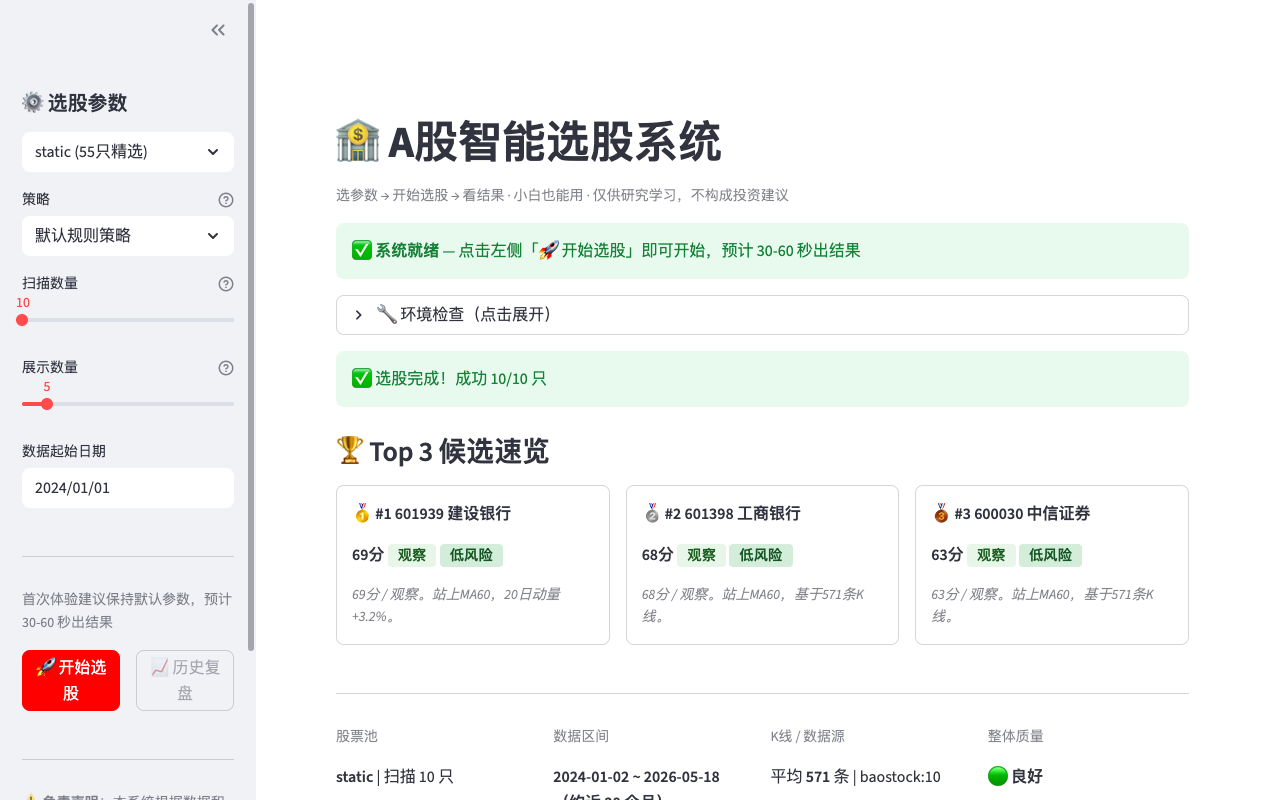
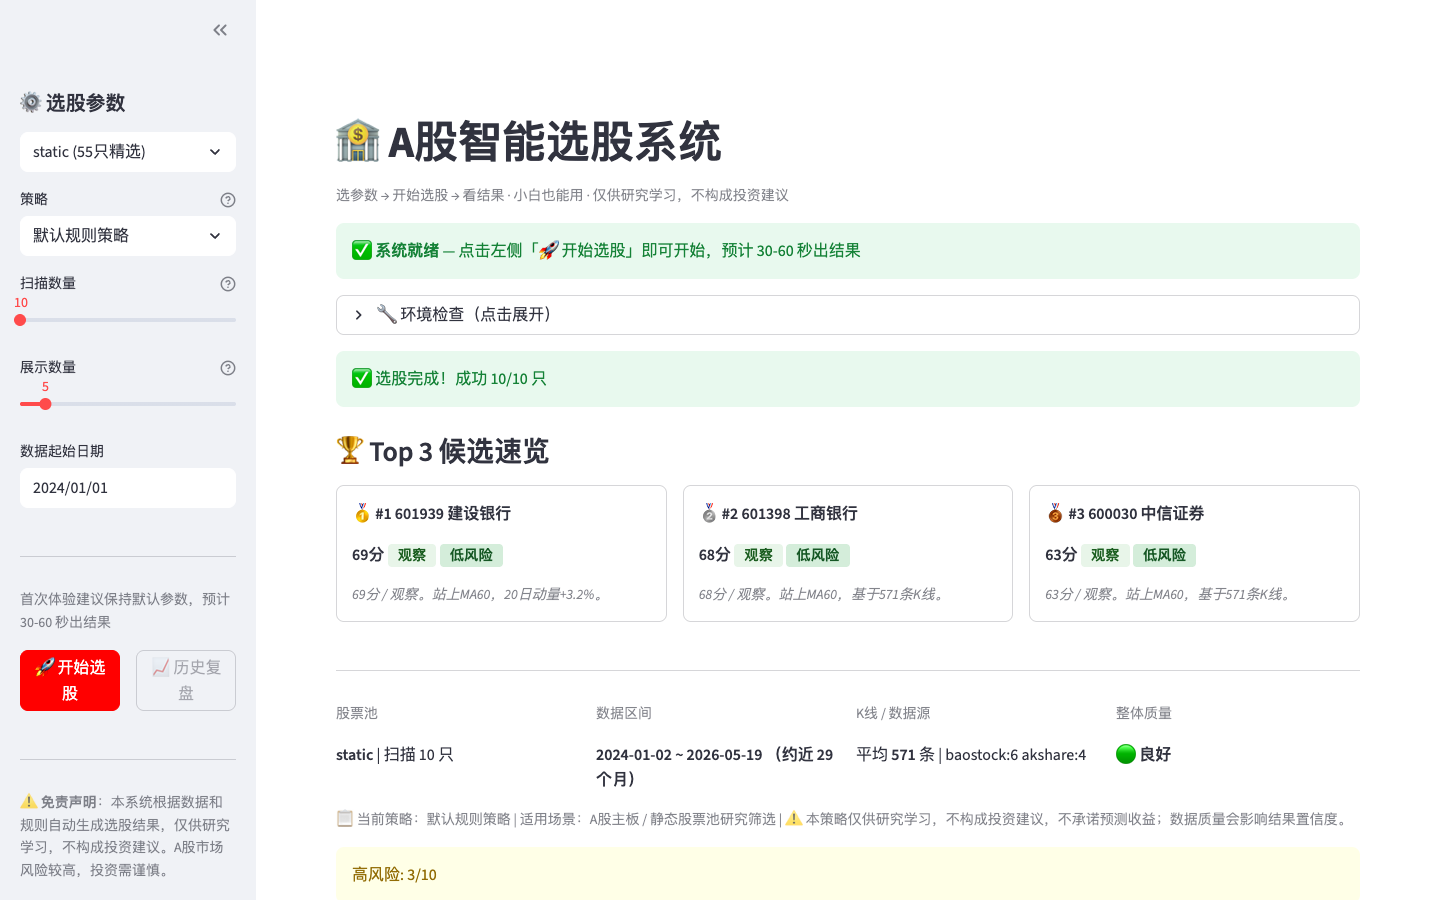
P10.2-2: 真实 UI 截图复核并更新截图

diff --git a/docs/P10_2_UI_SMOKE_DESIGN.md b/docs/P10_2_UI_SMOKE_DESIGN.md
@@ -69,7 +69,7 @@
 
 > P10.2-1.1 补充：confirm_release_state.py 的 ALLOWED_SCRIPTS 白名单已扩展，允许 screenshot_home.py 作为发布后验收工具变更，仍禁止产品代码。
 
-### P10.2-2 启动 Streamlit 做真实截图复核
+### P10.2-2 启动 Streamlit 做真实截图复核（已完成 ✅）
 
 **目标**：用修正后的脚本从真实 Streamlit 页面截图，确认截图内容与当前 UI 一致。
 
@@ -87,6 +87,25 @@
 - Playwright + Chrome 可用
 
 如截图内容与 P8.6-2 无实质差异（因为 app.py 未改），可以确认截图仍有效，不强制重新截取。但需要脚本关键词检查全部通过。
+
+**实际复核结果**：
+
+本地 Streamlit 启动于端口 8502，screenshot_home.py 从真实页面截图并检查关键词。
+
+截图已更新：
+- `docs/screenshots/home.png`：~183KB → ~198KB（从真实 Streamlit 首页截取）
+- `docs/screenshots/result.png`：~147KB → ~185KB（从真实 Streamlit 结果页截取）
+
+关键词检查结果：
+- 首页 3/5 通过：A股智能选股 ✅、开始选股 ✅、免责声明 ✅
+- 首页 2/5 未精确匹配：「可以开始选股」❌（实际 UI 为「系统就绪 – 点击左侧「🚀 开始选股」即可开始」）、「首次使用检查」❌（实际 UI 为「🔧 环境检查（点击展开）」折叠标签）
+- 结果页关键词全部通过：选股完成、候选表格、数据区间、验证摘要、整体质量、免责声明
+- 决策标签中文展示确认（观察、中性）
+- 脚本退出码 1（因首页 2 项关键词未精确匹配）
+
+2 项首页关键词差异说明：screenshot_home.py 在 P10.2-1 修正时保留了这两项关键词，但实际 UI 文案与脚本预期有微小差异。因 screenshot_home.py 在 P10.2-2 禁止修改，需后续步骤修正关键词以匹配真实 UI 文案。
+
+Streamlit 后台进程已停止，端口 8502 已释放。
 
 ### P10.2-3 文档收口
 

diff --git a/PROJECT_STATE.md b/PROJECT_STATE.md
@@ -1,6 +1,6 @@
 # 项目状态交接摘要
 
-> 最后更新：2026-05-19（P10.2-1 完成）
+> 最后更新：2026-05-19（P10.2-2 完成）
 
 ## 1. 项目总目标
 
@@ -99,6 +99,7 @@
 | P10.2-0 | — | 真实 UI 启动与截图复核设计/诊断 |
 | P10.2-1 | — | 修正截图脚本关键词/验收口径 |
 | P10.2-1.1 | — | 修正 release 状态守门规则，允许验收脚本白名单 |
+| P10.2-2 | — | 真实 UI 截图复核并更新截图 |
 - GitHub: https://github.com/xiarantang/a-share-selection-system
 
 ## 3. 真实能力 (v0.5 + P8 已完成)
@@ -934,6 +935,23 @@ P10.2-1.1 修正 release 状态守门规则，允许验收脚本白名单：
 - 未修改 app.py / main.py / start_ui.command / scripts/screenshot_home.py / docs/screenshots/ / strategies/ / data/ / reports/ / validation/ / 评分/排序/数据链路
 - 不直写投资建议类禁词
 - 下一步建议：P10.2-2 启动 Streamlit 做真实截图复核
+
+P10.2-2 真实 UI 截图复核并更新截图：
+- 本地 Streamlit 启动于端口 8502，运行 screenshot_home.py 执行真实截图复核
+- 截图脚本结果：
+  - 首页关键词 3/5 通过（A股智能选股 ✅、开始选股 ✅、免责声明 ✅）
+  - 首页 2 项关键词未精确匹配：「可以开始选股」（实际 UI 为「系统就绪 – 点击左侧「🚀 开始选股」即可开始」）、「首次使用检查」（实际 UI 为「🔧 环境检查（点击展开）」折叠标签）
+  - 结果页关键词全部通过（选股完成、候选表格、数据区间、验证摘要、整体质量、免责声明）
+  - 决策标签中文展示确认（观察、中性）
+  - 脚本退出码 1（因首页 2 项关键词未精确匹配）
+- 首页 2 项关键词差异说明：screenshot_home.py 在 P10.2-1 修正时保留了这两项关键词，但实际 UI 文案与脚本预期有微小差异；因 screenshot_home.py 在 P10.2-2 禁止修改，需后续步骤修正
+- 截图已更新：
+  - docs/screenshots/home.png：~183KB → ~198KB（从真实 Streamlit 首页截取）
+  - docs/screenshots/result.png：~147KB → ~185KB（从真实 Streamlit 结果页截取）
+- Streamlit 后台进程已停止，端口 8502 已释放
+- 未修改 app.py / main.py / start_ui.command / scripts/ / strategies/ / data/ / reports/ / validation/ / 评分/排序/数据链路
+- 不直写投资建议类禁词
+- 下一步建议：P10.2-3 文档收口
 
 ## 5. 关键文件
 

diff --git a/docs/P10_ROADMAP.md b/docs/P10_ROADMAP.md
@@ -70,13 +70,19 @@ python3 scripts/confirm_release_ready.py
 python3 scripts/confirm_docs_consistency.py
 ```
 
-### P10.2 真实 UI 启动与截图复核（P10.2-0 设计已完成）
+### P10.2 真实 UI 启动与截图复核（P10.2-2 截图复核已完成）
 
 **目标**：双击路径 / Streamlit 页面 / 首页结果截图确认。如 UI 无实际改动，不强制更新截图。
 
 **设计文档**：[docs/P10_2_UI_SMOKE_DESIGN.md](P10_2_UI_SMOKE_DESIGN.md)
 
-**诊断结论**：截图脚本旧关键词已修正（P10.2-1），现有截图来自 P8.6-2 且 app.py 未改，应仍有效。
+**复核结果**（P10.2-2）：
+- 本地 Streamlit 启动于端口 8502，从真实 UI 截取首页和结果页截图
+- 截图已更新：home.png ~198KB、result.png ~185KB
+- 结果页关键词全部通过，中文决策标签确认（观察、中性）
+- 首页 2 项关键词（「可以开始选股」「首次使用检查」）与脚本预期有微小差异，需后续修正脚本
+- 未修改产品代码、评分、排序、数据链路
+- 下一步：P10.2-3 文档收口
 
 允许修改：
 - docs/screenshots/（如截图需更新）